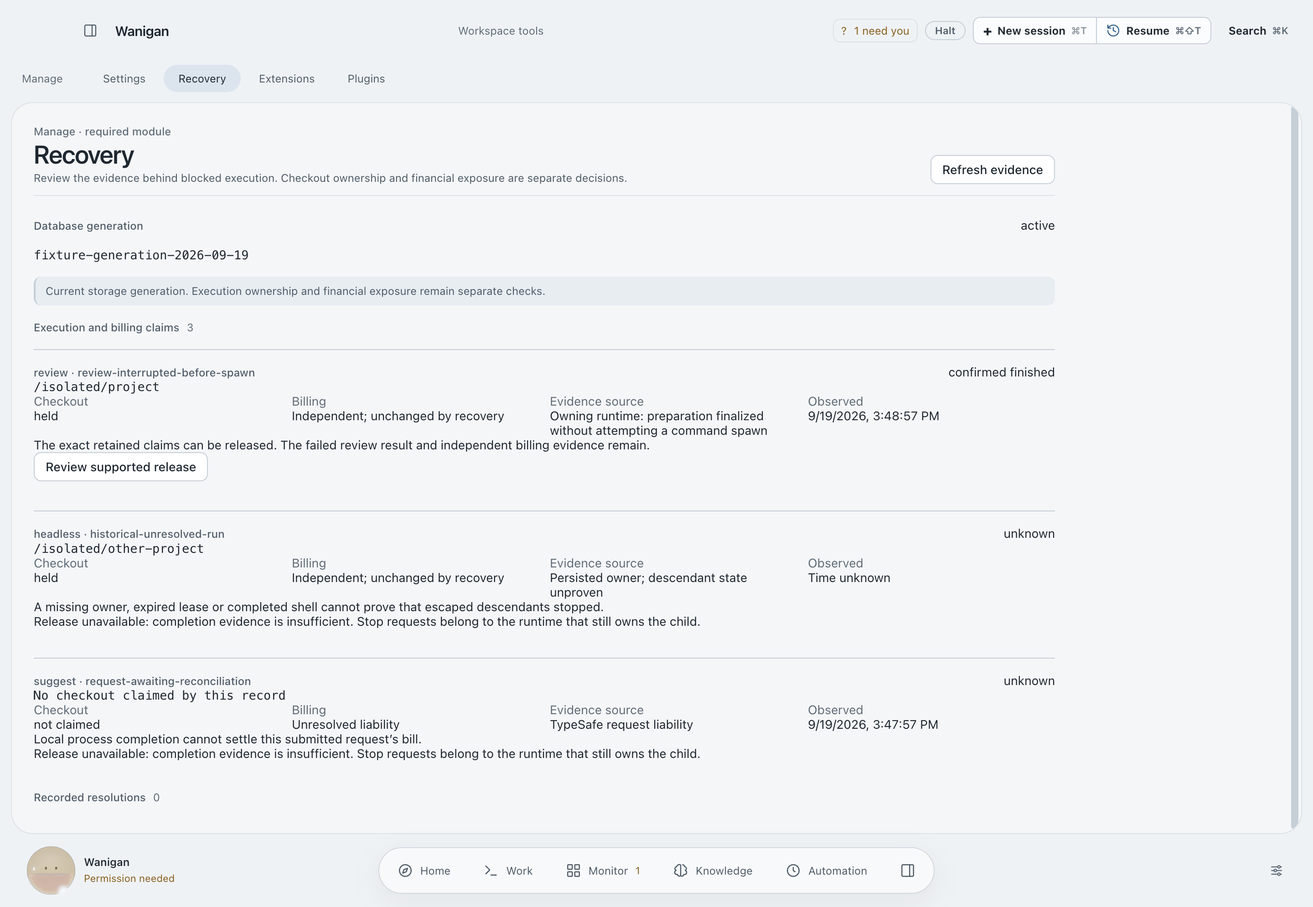
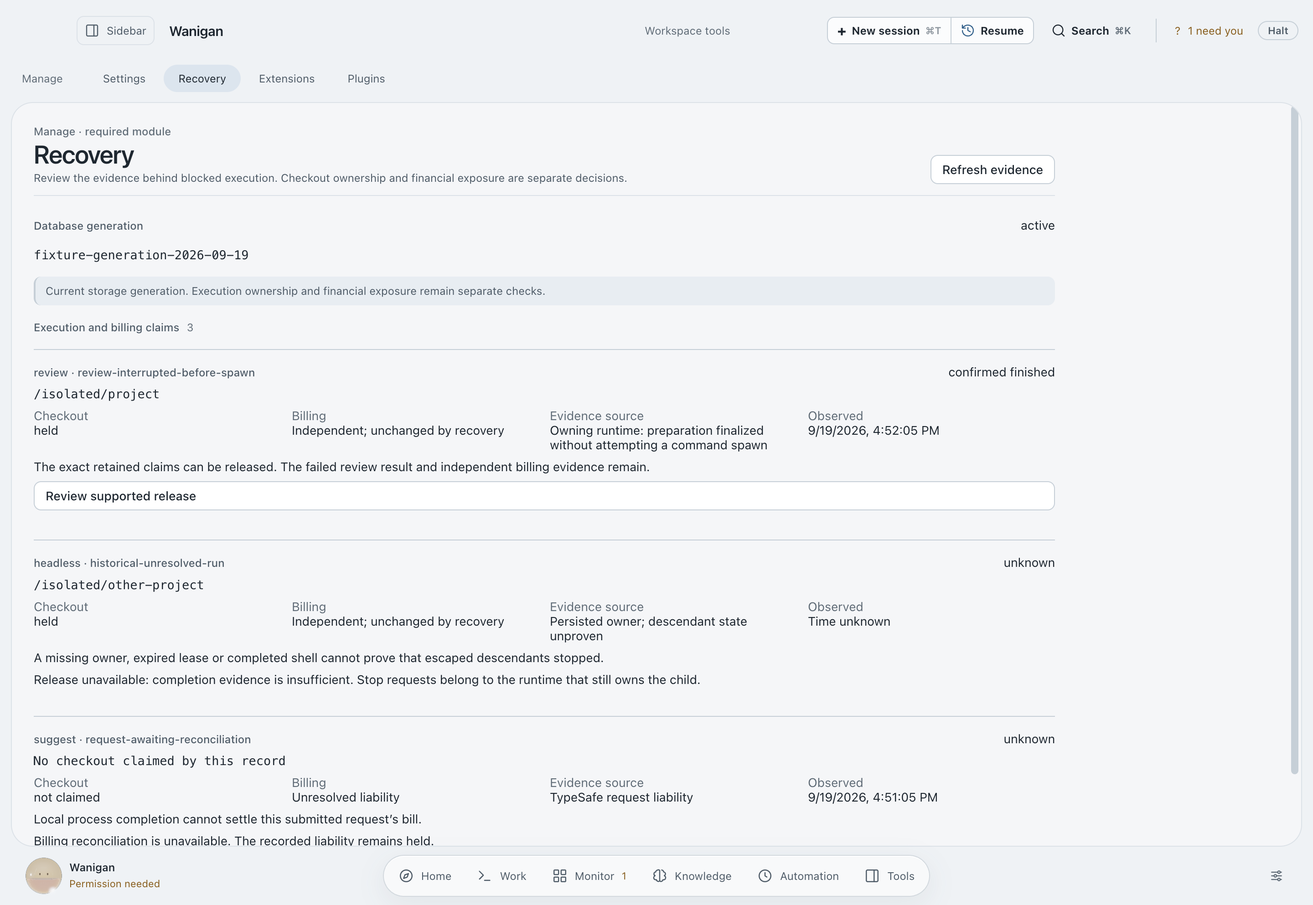
fix(recovery): record paid requests before they are sent and hold them in a maintenance host
Closes the three safety gaps the recovery handoff left open. The behaviour
they belong to landed mixed into 703c46c; this is the follow-up, not a rewrite.

- Required Usage owns an additive usage_paid_operations receipt, written with
  the Storage paid-admission check at each real send of the shared Anthropic
  client (every SDK retry, after whatever the caller awaited) and immediately
  before the learning CLI spawn. A closed source label and a time; no prompt,
  body, URL, credential or argv. A receipt that cannot be written means no
  request. There is no settlement contract, so a receipt is never cleared and
  any recorded paid operation refuses a later restore. That is deliberate and
  documented; relaxing it belongs with account-aware eligibility.
- assertStorageAdmission now asks the host too. A --storage-maintenance start
  leaves the persisted mode active until a restore begins, so a direct paid
  call could pass. TypeSafe's raw request checks before reserving its pending
  row, so a held host cannot mint a fictitious liability.
- Improve prompt is a Recovery owner: pending, or missing tokens or estimate,
  is unresolved. A partial table is unavailable evidence.
- Required Storage answers a held IPC channel before the started-services
  guard, whose "retry local services" advice cannot work in maintenance. The
  seven-check native probe failed on this on its first ever run and now passes.

Catalog, credential-validation, pricing, Scout and push transports are not
[…]

diff --git a/src/main/recovery-inspection.ts b/src/main/recovery-inspection.ts
@@ -4,7 +4,7 @@ import type { RecoveryObservation } from '../shared/recovery';
 import { markIncompleteCost, type AccountingMetric } from './telemetry-accounting';
 import type { SessionUsage } from '../shared/types';
 
-type Owner = 'sessions' | 'queue' | 'headless' | 'worktrees' | 'suggest' | 'usage';
+type Owner = 'sessions' | 'queue' | 'headless' | 'worktrees' | 'suggest' | 'prompt-improve' | 'usage';
 type Read = { table: string; sql: string; source: string; billing?: boolean };
 /** Read projections only. Each adapter is declared by the module owning these tables. */
 const READS: Record<Owner, Read[]> = {
@@ -19,6 +19,12 @@ const READS: Record<Owner, Read[]> = {
   ],
   worktrees: [{ table: 'worktree_command_runs', sql: "SELECT id,id AS operation_id,worktree AS cwd,status,owner_id,owner_pid,recovery_unresolved,started_at AS at,ended_at FROM worktree_command_runs WHERE status='running' OR recovery_unresolved=1", source: 'worktree command owner' }],
   suggest: [{ table: 'suggest_usage', sql: "SELECT CAST(id AS TEXT) AS id,COALESCE(request_id,CAST(id AS TEXT)) AS operation_id,at,attempt_status,finished_at FROM suggest_usage WHERE attempt_status IN ('pending','unresolved') OR (attempt_status='legacy' AND input_tokens IS NULL)", source: 'TypeSafe request liability', billing: true }],
+  // The pending row precedes the SDK call, and a stopped, timed-out or failed
+  // request keeps whatever meters it had. An estimate is this app's arithmetic,
+  // so its presence is disclosure; its absence is the unresolved exposure here.
+  'prompt-improve': [{ table: 'prompt_improve_usage', sql: `SELECT request_id AS id,request_id AS operation_id,at,status,
+    input_tokens,output_tokens,cache_read_tokens,estimated_cost_usd FROM prompt_improve_usage WHERE status='pending'
+    OR input_tokens IS NULL OR output_tokens IS NULL OR estimated_cost_usd IS NULL`, source: 'Improve prompt request without complete meters', billing: true }],
   usage: [],
 };
 
@@ -31,7 +37,7 @@ export function hasTable(d: Database.Database, table: string): boolean {
 }
 
 export function inspectRecoveryOwner(d: Database.Database, owner: Owner): RecoveryObservation[] {
-  if (owner === 'usage') return inspectUsageLiability(d);
+  if (owner === 'usage') return [...inspectUsageLiability(d), ...inspectPaidOperations(d)];
   return READS[owner].flatMap(read => {
     if (!hasTable(d, read.table)) return [];
     const rows = d.prepare(read.sql).all() as Record<string, unknown>[];
@@ -69,6 +75,19 @@ function inspectUsageLiability(d: Database.Database): RecoveryObservation[] {
     source: 'Recorded telemetry coverage', observedAt: row.at,
     reason: 'Observed activity has incomplete cost coverage. Restoring cannot erase this financial uncertainty.',
     revision: usageRevision(d, row, metrics.filter(metric => metric.session_id === row.session_id)), canReconcile: false,
+  }));
+}
+
+/** Required Usage's prospective receipts. There is no settlement contract, so
+ * every one is unresolved whether or not its request later returned. */
+function inspectPaidOperations(d: Database.Database): RecoveryObservation[] {
+  if (!hasTable(d, 'usage_paid_operations')) return [];
+  return (d.prepare('SELECT id,source,at FROM usage_paid_operations ORDER BY id').all() as { id: string; source: string; at: number }[]).map(row => ({
+    key: `usage:usage_paid_operations:${row.id}`, module: 'usage', operationId: row.id, cwd: null,
+    execution: 'unsupported', checkout: 'not claimed', billing: 'unresolved',
+    source: `Paid request admitted before submission (${row.source})`, observedAt: row.at,
+    reason: 'This request was recorded before it was sent and has no settlement contract. A returned response or an exited process does not establish what it cost, so it stays unresolved.',
+    revision: evidenceHash(row), canReconcile: false,
   }));
 }
 

diff --git a/src/main/modules/storage-runtime.ts b/src/main/modules/storage-runtime.ts
@@ -18,6 +18,17 @@ export function storageRuntimeStarted(): boolean { return servicesStarted; }
 export function holdStorageRuntimeForInspection(): void { inspectionHeld = true; }
 export function storageInspectionOnly(): boolean { return storageMaintenanceStartup() || inspectionHeld; }
 
+/** The persisted mode stays `active` in a maintenance startup until a restore
+ * really begins, so the side-effect boundary has to ask this host as well. IPC
+ * allowlisting covers the normal UI; a direct service call never crosses it.
+ * Recovery's own preview and apply pass no flag and remain available. */
+export function assertStorageRuntimeSideEffects(input: { automatic?: boolean; paid?: boolean }): void {
+  if (!storageInspectionOnly() || !(input.automatic || input.paid)) return;
+  throw new Error(input.paid
+    ? 'This Wanigan process is open only for storage maintenance or inspection. Paid work is held; quit and reopen normally to leave a maintenance startup.'
+    : 'This Wanigan process is open only for storage maintenance or inspection. Automatic work is held.');
+}
+
 export function assertStorageRuntimeRestoreReady(): void {
   if (servicesStarted) throw new Error('Restore requires a fresh maintenance startup. Restart for restore from Settings → Backup; stopping timers cannot prove that earlier asynchronous work drained.');
   const pending = [...calls.values()].filter(channel => channel !== 'backup:restore');
@@ -35,12 +46,19 @@ const maintenanceChannels = new Set([
   'companion:snapshot',
 ]);
 
+/** The refusal a held host gives a channel, or null. The host asks this before
+ * its started-services guard: a maintenance startup never starts services by
+ * design, and "retry local services" is advice that cannot work there. */
+export function storageIpcRefusal(channel: string): string | null {
+  if (!storageInspectionOnly() || maintenanceChannels.has(channel)) return null;
+  return inspectionHeld
+    ? 'The restored database is open for inspection. Execution and spending remain held; restarting does not reconcile historical evidence.'
+    : 'Wanigan is open for storage maintenance. Only Backup, Recovery and local inspection are available; quit and reopen normally to leave this mode.';
+}
+
 export async function storageIpcScope<T>(channel: string, operation: () => T | Promise<T>): Promise<T> {
-  if (storageInspectionOnly() && !maintenanceChannels.has(channel)) {
-    throw new Error(inspectionHeld
-      ? 'The restored database is open for inspection. Execution and spending remain held; restarting does not reconcile historical evidence.'
-      : 'Wanigan is open for storage maintenance. Only Backup, Recovery and local inspection are available; quit and reopen normally to leave this mode.');
-  }
+  const refusal = storageIpcRefusal(channel);
+  if (refusal) throw new Error(refusal);
   const token = Symbol(channel);
   calls.set(token, channel);
   try { return await operation(); }

diff --git a/src/main/modules/usage-paid-operations.ts b/src/main/modules/usage-paid-operations.ts
@@ -1,0 +1,53 @@
+import { randomUUID } from 'node:crypto';
+import type Database from 'better-sqlite3';
+import { db } from '../db';
+import { assertStorageAdmission } from '../storage-maintenance';
+
+/** Transports with no owner ledger of their own that precedes the send. The
+ * label is the whole record: no prompt, body, URL, credential or argv. */
+export type PaidOperationSource = 'anthropic:messages' | 'anthropic:batches' | 'learning:cli';
+
+/** A prospective receipt, written before the request can exist. Nothing here
+ * settles it: a finished fetch or an exited child says the call returned, not
+ * what it cost, and the ledgers that do record cost belong to other modules
+ * and cover only some callers. So a receipt stays unresolved, and any recorded
+ * paid operation refuses a later restore. That is the stated price of having
+ * no settlement contract yet, not an oversight to clear on completion. */
+export function migrateUsagePaidOperations(d: Database.Database): void {
+  d.exec(`CREATE TABLE IF NOT EXISTS usage_paid_operations (
+    id TEXT PRIMARY KEY,
+    source TEXT NOT NULL,
+    at INTEGER NOT NULL
+  )`);
+}
+
+/** Synchronous on purpose: call it immediately before the send or spawn, after
+ * every await, so a maintenance hold that appeared meanwhile is seen. A failed
+ * write throws and the request is never made. */
+export function admitPaidOperation(source: PaidOperationSource, d: Database.Database = db()): string {
+  assertStorageAdmission({ paid: true });
+  const id = randomUUID();
+  d.prepare('INSERT INTO usage_paid_operations(id,source,at) VALUES (?,?,?)').run(id, source, Date.now());
+  return id;
+}
+
+/** The SDK calls its fetch once per actual attempt, so its own retries are
+ * re-admitted and each leaves a receipt. Reads, polls, cancels and token
+ * counting are not billable submissions and pass through unrecorded. */
+export function paidOperationSource(method: string, pathname: string): PaidOperationSource | null {
+  if (method.toUpperCase() !== 'POST') return null;
+  const route = pathname.replace(/\/+$/, '');
+  if (route.endsWith('/v1/messages')) return 'anthropic:messages';
+  if (route.endsWith('/v1/messages/batches')) return 'anthropic:batches';
+  return null;
+}
+
+type Fetch = typeof globalThis.fetch;
+export function admittedFetch(send: Fetch = globalThis.fetch, admit: (source: PaidOperationSource) => unknown = admitPaidOperation): Fetch {
+  return (input, init) => {
+    const request = typeof input === 'string' || input instanceof URL ? null : input;
+    const source = paidOperationSource(init?.method ?? request?.method ?? 'GET', new URL(request ? request.url : String(input)).pathname);
+    if (source) admit(source);
+    return send(input, init);
+  };
+}

diff --git a/src/main/recovery.ts b/src/main/recovery.ts
@@ -15,21 +15,22 @@ const TTL = 5 * 60_000;
 
 /** Recovery is called only after the canonical database migration boundary.
  * Missing safety tables are unreadable evidence, never an empty claim set.
- * Optional Suggest may genuinely never have been installed; if present, its
- * own reader validates every required column rather than assuming defaults. */
+ * Optional Suggest and Improve prompt may genuinely never have been installed;
+ * if present, each reader names every required column rather than assuming
+ * defaults, so a partial table is unavailable evidence too. */
 const REQUIRED_EVIDENCE_TABLES = [
   'projects', 'session_log', 'checkout_activity', 'queue', 'headless_rows',
   'worktree_command_runs', 'review_runs', 'review_checkout_owners',
   'review_recovery_evidence', 'session_metrics', 'session_api_events',
   'session_telemetry_coverage', 'session_telemetry_issues',
   'session_telemetry_receipts', 'runs', 'batches', 'events', 'learning_model_runs', 'recovery_resolutions',
-  'companion_turns', 'interviews',
+  'companion_turns', 'interviews', 'usage_paid_operations',
 ] as const;
 
 function adapters(): Map<string, RecoveryAdapter> {
   // Direct service callers have the same required owners, even before the
   // host's module registration pass. Optional contributed adapters add to it.
-  const owners = ['sessions', 'queue', 'headless', 'worktrees', 'suggest', 'usage'] as const;
+  const owners = ['sessions', 'queue', 'headless', 'worktrees', 'suggest', 'prompt-improve', 'usage'] as const;
   const all = new Map<string, RecoveryAdapter>(owners.map(owner => [owner, { inspect: d => inspectRecoveryOwner(d, owner) }]));
   all.set('review', { ...reviewRecoveryAdapter, inspect: d => hasTable(d, 'review_runs') ? reviewRecoveryAdapter.inspect(d) : [] });
   for (const module of modules()) if (module.recovery) all.set(module.id, module.recovery);

diff --git a/src/main/index.ts b/src/main/index.ts
@@ -111,7 +111,7 @@ import * as uploads from './batch/files';
 import { allSettings, flags, slotsSetting } from './settings';
 import { migrateUserData } from './migrate';
 import { assertStorageAdmission, storageStatus } from './storage-maintenance';
-import { markStorageRuntimeStarted, holdStorageRuntimeForInspection, storageMaintenanceStartup, storageInspectionOnly, storageIpcScope } from './modules/storage-runtime';
+import { markStorageRuntimeStarted, holdStorageRuntimeForInspection, storageMaintenanceStartup, storageInspectionOnly, storageIpcRefusal, storageIpcScope } from './modules/storage-runtime';
 import { isDaemonInvocation, daemonStatus, installDaemon, uninstallDaemon } from './daemon';
 import * as codexStatus from './codex-status';
 import * as learning from './learning-service';
@@ -1705,6 +1705,10 @@ function registerIpc() {
         // Only the read is shared; a write from a demo window still falls to
         // the demo reader below and is refused.
         if (channel === 'keymap:get') return { ok: true, data: keymapState() };
+        // Required Storage answers first: its hold is the reason services are
+        // not started here, and its wording is the one that is true.
+        const held = demo ? null : storageIpcRefusal(channel);
+        if (held) throw new Error(held);
         if (!demo && !attendedServicesStarted && (needsStartedServices.has(channel) || moduleNeedsStartedServices(channel))) {
           throw new Error(startupState.phase === 'recovery'
             ? 'Local services are in recovery mode. Retry local services before starting work.'

diff --git a/src/main/modules/usage.ts b/src/main/modules/usage.ts
@@ -4,6 +4,7 @@ import * as otel from '../otel';
 import * as statusline from '../statusline';
 import { migrateUsage } from './usage-storage';
 import { inspectRecoveryOwner } from '../recovery-inspection';
+import { migrateUsagePaidOperations } from './usage-paid-operations';
 
 /** Usage owns the existing telemetry and consumption channels. The evidence
  * collector and database remain the source of truth; these reads cannot be
@@ -12,7 +13,7 @@ export const usageModule: WaniganModule = {
   id: 'usage',
   label: 'Usage',
   required: { reason: 'Exposes recorded session evidence and provider usage readings across the app.' },
-  migrate: migrateUsage,
+  migrate: d => { migrateUsage(d); migrateUsagePaidOperations(d); },
   recovery: { inspect: d => inspectRecoveryOwner(d, 'usage') },
   ipc(handle) {
     // ══ phase 1 · telemetry ═════════════════════════════════════════════

diff --git a/src/main/modules/learning-model-assist-runtime.ts b/src/main/modules/learning-model-assist-runtime.ts
@@ -4,6 +4,7 @@ import fs from 'node:fs';
 import path from 'node:path';
 import { app } from 'electron';
 import { db } from '../db';
+import { admitPaidOperation } from './usage-paid-operations';
 import { getSetting, setSetting } from '../settings';
 import { providerById, refreshProviderPacks, shellPath, type ProviderDef } from '../providers';
 import { headlessEnv, parseCliOutput, resolveBin } from '../headless';
@@ -624,6 +625,9 @@ export async function probe(providerId: string, budgetUsd: number): Promise<Prob
 
 function run(bin: string, argv: string[], cwd: string, env: NodeJS.ProcessEnv): Promise<string> {
   return new Promise((resolve, reject) => {
+    // Immediately before the spawn: the run row is written only after the
+    // child completes, and a failed receipt must mean no child.
+    admitPaidOperation('learning:cli');
     const child = spawn(bin, argv, { cwd, env, stdio: ['ignore', 'pipe', 'pipe'] });
     let out = '';
     let truncated = false;

diff --git a/src/main/modules/suggest.ts b/src/main/modules/suggest.ts
@@ -1,4 +1,5 @@
 import { inspectRecoveryOwner } from '../recovery-inspection';
+import { assertStorageAdmission } from '../storage-maintenance';
 import type { WaniganModule } from '../module-registry';
 import { createHash } from 'node:crypto';
 import { refuseIfHalted } from '../halt';
@@ -215,6 +216,9 @@ async function ask(request: SystemOneRequest, keyOverride?: string): Promise<Ask
   // A local serialization failure proves nothing was submitted. Do it before
   // reserving unknown exposure, so it cannot create a fictitious liability.
   const requestBody = JSON.stringify(request);
+  // The pending row below is TypeSafe's own receipt. Nothing is awaited between
+  // here and the send, and a held host must refuse before reserving exposure.
+  assertStorageAdmission({ paid: true });
   const started = Date.now();
   const requestId = beginSuggestAttempt({
     at: started, requestedModel: request.model, source: ENDPOINT,

diff --git a/src/main/modules/prompt-improve.ts b/src/main/modules/prompt-improve.ts
@@ -6,6 +6,7 @@ import { MODELS } from '../batch/pricing';
 import { getKey } from '../keys';
 import { getSetting, setSetting } from '../settings';
 import { refuseIfHalted, registerHaltStopper } from '../halt';
+import { inspectRecoveryOwner } from '../recovery-inspection';
 import {
   migratePromptImproveUsage, promptImproveConsumption, promptImproveDaily, recordPromptImproveMeters,
 } from '../prompt-improve-usage';
@@ -204,6 +205,7 @@ export const promptImproveModule = {
   // Disabling removes optional suggestions; writing and sending drafts still work.
   required: null,
   migrate: migratePromptImproveUsage,
+  recovery: { inspect: (d: Database.Database) => inspectRecoveryOwner(d, 'prompt-improve') },
   requiresStartedServices: ['improve'],
   egress: () => promptImproveEgress(promptImprove.status()),
   usage: { consumption: promptImproveConsumption, daily: promptImproveDaily },

diff --git a/src/main/storage-maintenance.ts b/src/main/storage-maintenance.ts
@@ -4,6 +4,7 @@ import path from 'node:path';
 import { randomUUID } from 'node:crypto';
 import { app } from 'electron';
 import { execFileSync } from 'node:child_process';
+import { assertStorageRuntimeSideEffects } from './modules/storage-runtime';
 
 /** Required Storage owns this interlock. It is deliberately outside wanigan.db
  * and the backup manifest. It contains coordination, never usage or execution
@@ -224,6 +225,7 @@ function currentStorageRevision(state: State): string {
 }
 
 export function assertStorageAdmission(input: { automatic?: boolean; paid?: boolean } = {}): void {
+  assertStorageRuntimeSideEffects(input);
   const state = coordinator().state();
   if (state.mode === 'maintenance') throw new Error('Storage maintenance is active. No new work may start; inspect the restore journal.');
   if (state.mode === 'inspection' && (input.automatic || input.paid)) {

diff --git a/src/main/modules/usage-anthropic.ts b/src/main/modules/usage-anthropic.ts
@@ -1,5 +1,6 @@
 import Anthropic from '@anthropic-ai/sdk';
 import { getKey, getWorkspaceId } from '../keys';
+import { admittedFetch } from './usage-paid-operations';
 
 export function isMock(): boolean {
   return process.env.WANIGAN_MOCK === '1';
@@ -20,6 +21,9 @@ export function client(): Anthropic {
   _client = new Anthropic({
     apiKey: key || 'mock',
     maxRetries: 4,
+    // Admission and the prospective receipt happen at each real send, after
+    // whatever the caller awaited, and again for every SDK retry.
+    fetch: admittedFetch(),
     // Identity-linked keys require this on every request; plain keys ignore it.
     ...(workspaceId ? { defaultHeaders: { 'anthropic-workspace-id': workspaceId } } : {}),
   });

diff --git a/docs/research/2026-09-19-relay-recovery-platform-evidence.md b/docs/research/2026-09-19-relay-recovery-platform-evidence.md
@@ -52,7 +52,21 @@ On the implementation revision before integration, `node scripts/test-review-rec
 
 `node scripts/test-recovery-inspection.cjs` separately passed **15 tests, 0 failures** through the production Recovery service, registry, owner declarations and actual telemetry accounting with real SQLite/filesystem operations. External storage status/admission is an explicit fixture boundary. It covers one-use tokens, malformed/tampered arguments, mutable return aliases, expiry, newer previews, another global claim, late result, storage-generation replacement, symlink/directory replacement, invalid checkout types, maintenance refusal and direct restore admission before registry initialization. A matrix exercises independent ownership, TypeSafe liability, unmetered Headless/learning results, incomplete telemetry, and batch results still owed or explicitly lost despite an ingestion stamp. Reported zero-dollar controls remain valid. Missing required safety schemas produce an explicit unavailable read rather than an empty authority to restore. A late accounting event, issue or source-ledger change invalidates receipts even when the maximum timestamp is unchanged. The successful service transition appends a resolution while leaving an unresolved remote submission intact and permitting a subsequent checkpoint ownership claim.
 
-The learning-model inspector can retain recorded unmetered and unknown-state exposure. Source inspection found that the existing learning invocation writes its `learning_model_runs` row only after a result or failure, so an owner crash during invocation can leave no reservation row. The inspection projection cannot reconstruct that absent evidence; participant/drain behavior and any prospective reservation change need separate runtime verification. [Learning invocation](../../src/main/learning-model-assist.ts).
+The learning-model inspector can retain recorded unmetered and unknown-state exposure. Source inspection found that the learning invocation writes its `learning_model_runs` row only after a result or failure, and that the shared SDK path had no pending ledger at all, so an owner exit during a request could leave no evidence that one was made. Evidence that was never written cannot be reconstructed; that remains true for history before this change.
+
+Required Usage now owns an additive `usage_paid_operations(id, source, at)` receipt, written synchronously together with the Storage paid-admission check: at each actual send of the shared Anthropic client, including every SDK retry and after whatever the caller awaited, and immediately before the learning CLI is spawned. Only `POST …/v1/messages` and `POST …/v1/messages/batches` are treated as billable submissions; polls, reads, cancels and token counting pass through unrecorded. The record is a closed source label and a time. No prompt, body, URL, query string, credential or argv is stored. A receipt that cannot be written means the request or child is never started. [Receipt boundary](../../src/main/modules/usage-paid-operations.ts).
+
+**There is no settlement contract, and this is a deliberate limitation.** A returned response or an exited child says the call came back, not what it cost, and the dry-run sample request has no cost ledger of its own to defer to, while legacy interviews keep only totals. A receipt is therefore never updated or cleared, Recovery reports every one as unresolved billing, and any installation that has made a paid call through these transports after this change is refused a later restore. That is the same conservative posture already taken for legacy interviews. Relaxing it requires a per-operation settlement contract with the owning ledger, which belongs with account-aware eligibility in the following phase.
+
+`assertStorageAdmission` now also consults the host: a `--storage-maintenance` startup leaves the persisted mode `active` until a restore really begins, so a direct service call could previously pass paid admission there. Paid and automatic admission are refused in a maintenance or inspection host; Recovery's own unflagged preview/apply admission is not. TypeSafe's raw request bypasses the shared client and keeps its own pending row as its receipt; it now checks paid admission before reserving that row, with nothing awaited between the check and the send, so a held host cannot mint a fictitious liability. Improve prompt is now a Recovery owner: a pending row, or any row missing input tokens, output tokens or an estimate, is unresolved. An estimate is this app's arithmetic and is not presented as a settled bill; its absence is what is flagged.
+
+Not fenced at the transport, by decision rather than oversight: model and backend catalog reads, credential validation, the pricing and cost-report reads, Improvement Scout sources and mobile push delivery. None submits billable model work. In a maintenance or inspection host they are reachable only through IPC channels outside the offline allowlist or through services that host never starts; no test asserts transport-level refusal for them, so none is claimed.
+
+`node scripts/test-usage-paid-operations.cjs` exercises the production helper against real SQLite with a local fetch double: receipt-before-send ordering, retry re-admission, a maintenance hold appearing after an earlier await, no receipt and no transport for a refused request, failed-receipt refusal for both fetch and CLI, the bounded record, and non-billable passthrough. `test-storage-runtime.cjs` covers the host refusal, and the Recovery inspection matrix (now **16 tests**) covers the receipt, four Improve prompt states with metered controls, a partial Improve prompt table as unavailable evidence, and `usage_paid_operations` as a required schema. The learning spawn gate is a one-line call to the tested helper and is not separately driven through a synthetic process.
+
+The native lifecycle probe's seven-check version ran for the first time against this revision and initially failed its sixth check. The refusal itself was correct, but the host's started-services guard answered before required Storage and told the operator to "retry local services", which cannot work in a maintenance startup. Required Storage now answers a held channel first (`storageIpcRefusal`), and **all seven checks pass**: launch through a real PTY, normal quit and drain, reopen without relaunch, no residual claim, a fresh `--storage-maintenance` start with zero credential calls and a real Backup create/inspect, refusal of execution, model refresh and provider discovery, and a startup retry that stays in maintenance.
+
+Final verification on this revision, Node 22.23.2, isolated temporary roots, no provider calls, $0 spent: `npm test` exited 0 across all eight gates with smoke at **2,701 passed, 0 failed**, followed by the execution-recovery suites; `npm run build`, `npm run probe:terminal`, `node scripts/probe-recovery-native.mjs` (7/7) and `node scripts/probe-recovery.mjs` (both themes, no page errors) exited 0, and `git diff --check` was clean. Known presentation gap: `after/backup-restore-*.png` captures the top of the Backup pane rather than the Restore section, so the restart-for-restore copy is evidenced by the Backup module fixture and the native probe, not by a screenshot.
 
 ## Renderer and native fixture provenance
 
